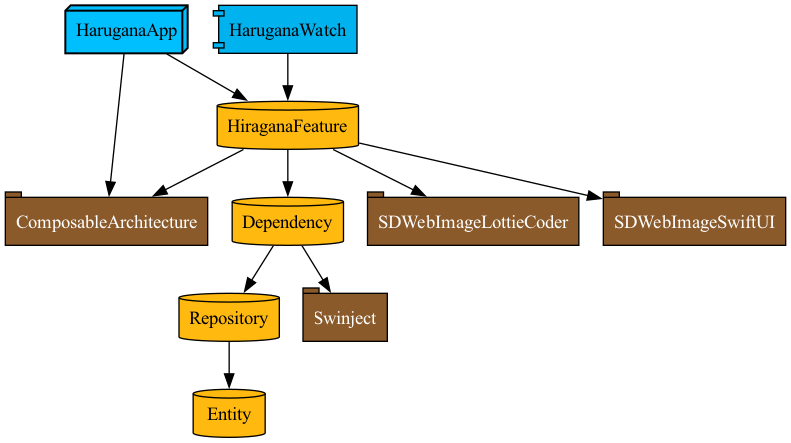
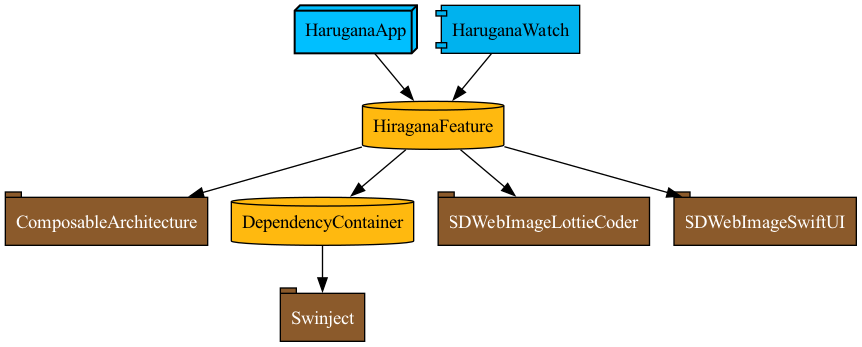
빌드 오류 수정

diff --git a/Modules/Feature/HiraganaFeature/Project.swift b/Modules/Feature/HiraganaFeature/Project.swift
@@ -5,7 +5,7 @@ let project: Project = .init(
     packages: [
         .remote(url: "https://github.com/SDWebImage/SDWebImageLottieCoder.git", requirement: .range(from: "0.2.0", to: "0.2.0")),
         .remote(url: "https://github.com/SDWebImage/SDWebImageSwiftUI.git", requirement: .exact("2.0.0")),
-//        .remote(url: "https://github.com/pointfreeco/swift-composable-architecture", requirement: .upToNextMajor(from: "1.9.2"))
+        .remote(url: "https://github.com/pointfreeco/swift-composable-architecture", requirement: .upToNextMajor(from: "1.9.2"))
     ],
     targets: [
         .target(
@@ -18,7 +18,7 @@ let project: Project = .init(
             dependencies: [
                 .package(product: "SDWebImageLottieCoder", type: .runtime, condition: .none),
                 .package(product: "SDWebImageSwiftUI", type: .runtime, condition: .none),
-//                .package(product: "ComposableArchitecture", type: .runtime, condition: nil),
+                .package(product: "ComposableArchitecture", type: .runtime, condition: nil),
                 .project(target: "DependencyContainer", path: .relativeToRoot("Modules/Shared/DependencyContainer"), condition: .none),
             ]
         )

diff --git a/Modules/App/Harugana/Project.swift b/Modules/App/Harugana/Project.swift
@@ -3,7 +3,7 @@ import ProjectDescription
 let project: Project = .init(
     name: "Harugana",
     packages: [
-        .remote(url: "https://github.com/pointfreeco/swift-composable-architecture", requirement: .upToNextMajor(from: "1.9.2"))
+        // .remote(url: "https://github.com/pointfreeco/swift-composable-architecture", requirement: .upToNextMajor(from: "1.9.2"))
     ],
     targets: [
         .target(
@@ -30,7 +30,7 @@ let project: Project = .init(
             sources: ["App/Sources/**"],
             resources: ["App/Resources/**"],
             dependencies: [
-                .package(product: "ComposableArchitecture", type: .runtime, condition: nil),
+                // .package(product: "ComposableArchitecture", type: .runtime, condition: nil),
                 .project(target: "HiraganaFeature", path: .relativeToRoot("Modules/Feature/HiraganaFeature"), condition: .none),
             ],
             settings: .settings(

diff --git a/Modules/Feature/HiraganaFeature/Sources/HiraganaStudy/App/AppHiraganaStudyFeature.swift b/Modules/Feature/HiraganaFeature/Sources/HiraganaStudy/App/AppHiraganaStudyFeature.swift
@@ -1,6 +1,6 @@
 //
-//  HiraganaDetailFeature.swift
-//  HaruganaApp
+//  HiraganaStudyFeature.swift
+//  HiraganaFeature
 //
 //  Created by 정진균 on 4/12/24.
 //
@@ -9,17 +9,21 @@ import Foundation
 import ComposableArchitecture
 
 @Reducer
-struct HiraganaDetailFeature {
+public struct HiraganaDetailFeature {
     @ObservableState
-    struct State: Equatable {
-        var test: String?
+    public struct State: Equatable {
+        public var test: String?
+
+        public init(test: String? = nil) {
+            self.test = test
+        }
     }
 
-    enum Action {
+    public enum Action {
         case testAction
     }
 
-    var body: some Reducer<State, Action> {
+    public var body: some Reducer<State, Action> {
         Reduce { state, action in
             switch action {
             case .testAction:
@@ -28,4 +32,6 @@ struct HiraganaDetailFeature {
             }
         }
     }
+
+    public init() {}
 }

diff --git a/Modules/Feature/HiraganaFeature/Sources/HiraganaStudy/App/AppHiraganaStudyView.swift b/Modules/Feature/HiraganaFeature/Sources/HiraganaStudy/App/AppHiraganaStudyView.swift
@@ -1,6 +1,6 @@
 //
-//  HiraganaDetailView.swift
-//  HaruganaApp
+//  HiraganaStudyView.swift
+//  HiraganaFeature
 //
 //  Created by 정진균 on 4/12/24.
 //
@@ -8,11 +8,15 @@
 import SwiftUI
 import ComposableArchitecture
 
-struct HiraganaDetailView: View {
-    let store: StoreOf<HiraganaDetailFeature>
+public struct HiraganaDetailView: View {
+    public let store: StoreOf<HiraganaDetailFeature>
 
-    var body: some View {
+    public var body: some View {
         Text(/*@START_MENU_TOKEN@*/"Hello, World!"/*@END_MENU_TOKEN@*/)
+    }
+
+    public init(store: StoreOf<HiraganaDetailFeature>) {
+        self.store = store
     }
 }
 
@@ -22,3 +26,4 @@ struct HiraganaDetailView: View {
     }
     return HiraganaDetailView(store: store)
 }
+

diff --git a/Modules/App/Harugana/App/Sources/ContentView.swift b/Modules/App/Harugana/App/Sources/ContentView.swift
@@ -1,5 +1,6 @@
-import SwiftUI
 import ComposableArchitecture
+import HiraganaFeature
+import SwiftUI
 
 public struct ContentView: View {
     @Bindable var store: StoreOf<HomeFeature>

diff --git a/Modules/App/Harugana/App/Sources/Home/HomeTCA.swift b/Modules/App/Harugana/App/Sources/Home/HomeTCA.swift
@@ -5,8 +5,9 @@
 //  Created by 정진균 on 4/6/24.
 //
 
-import Foundation
 import ComposableArchitecture
+import Foundation
+import HiraganaFeature
 
 @Reducer
 struct HomeFeature {
